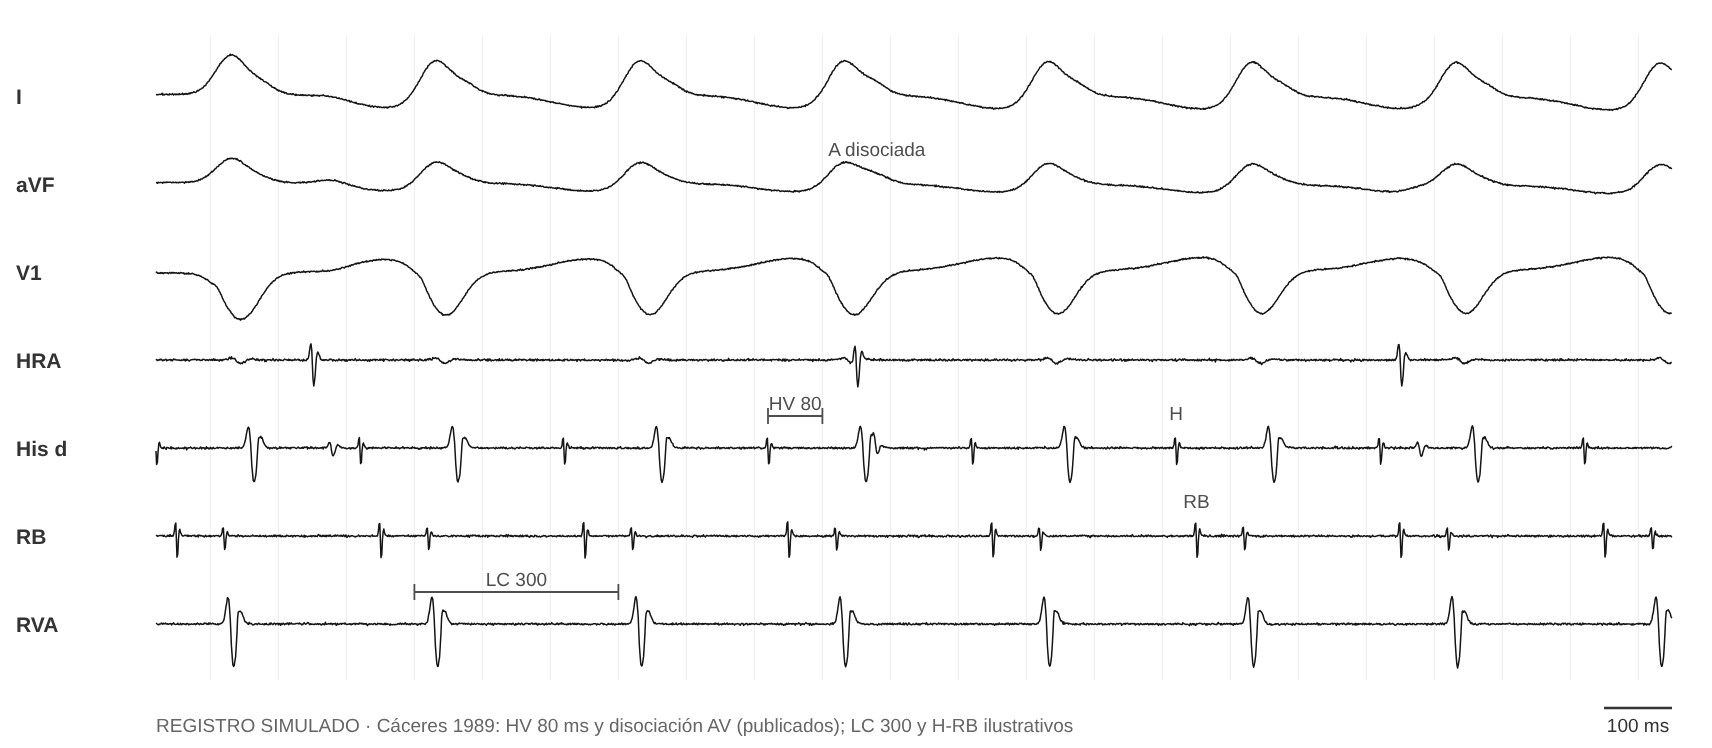
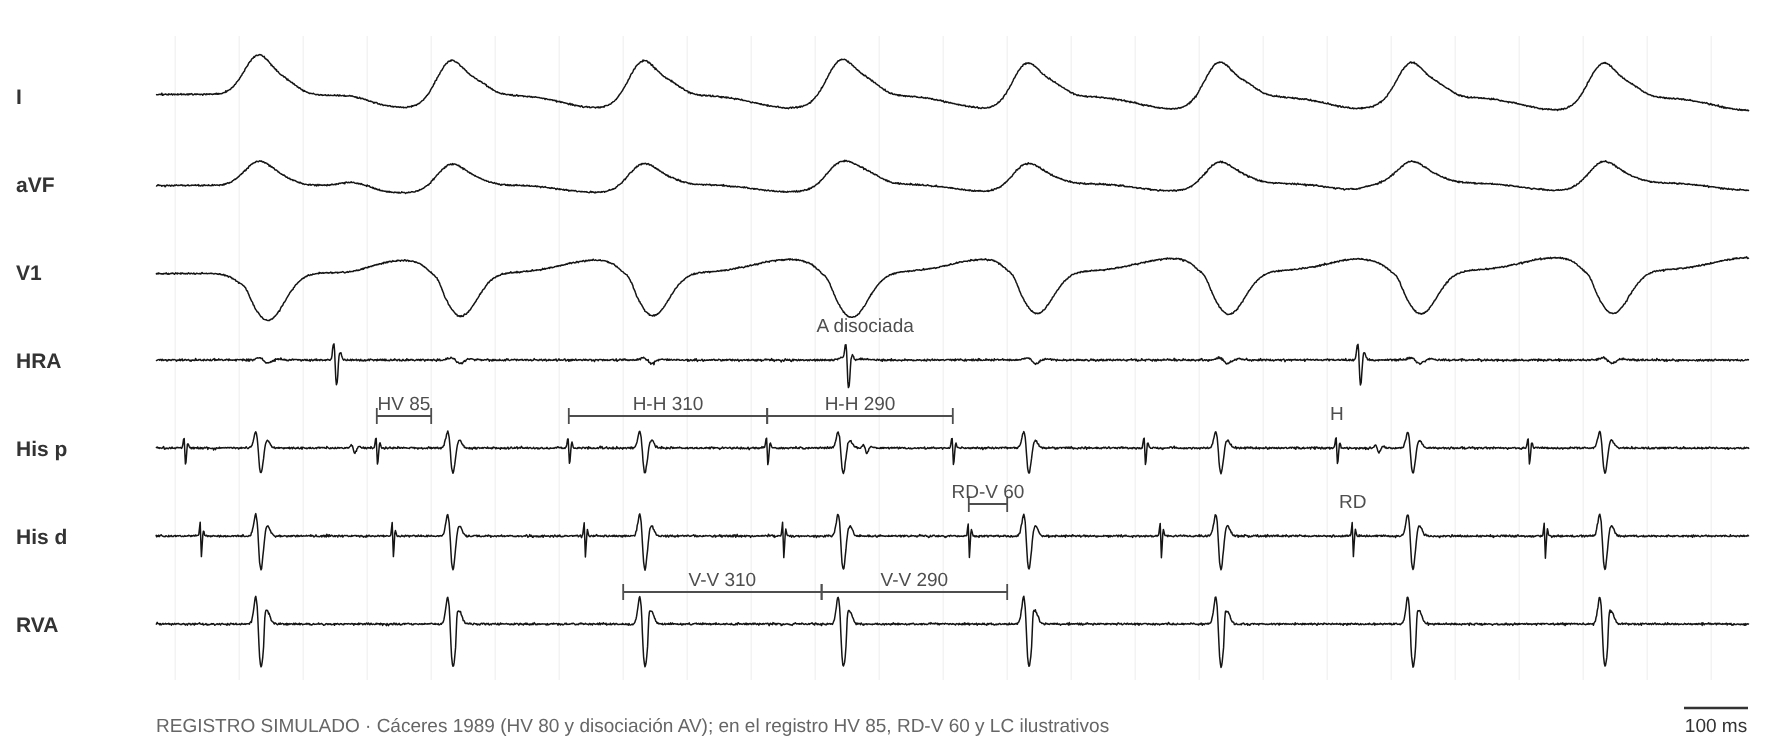
Rama-rama: canales His p (HV 85) e His d (RD-V 60), calibres H-H y V-V
Claude-Session: https://claude.ai/code/session_01Pw5rjt62KK5LeJZoEyFiaM

diff --git a/sw.js b/sw.js
@@ -1,6 +1,6 @@
 // Permite instalar la app y abrirla sin conexión. Primero la red (siempre lo último publicado); si no hay, la copia.
 // Si cambiás un archivo, subí CACHE_VERSION.
-const CACHE_VERSION = 'mef-v51';
+const CACHE_VERSION = 'mef-v52';
 const ARCHIVOS = ['./', './index.html', './manifest.json', './iconos/icon-192.png', './iconos/icon-512.png'];
 self.addEventListener('install', e => e.waitUntil(caches.open(CACHE_VERSION).then(c => c.addAll(ARCHIVOS)).then(() => self.skipWaiting())));
 self.addEventListener('activate', e => e.waitUntil(caches.keys().then(ks => Promise.all(ks.filter(k => k !== CACHE_VERSION).map(k => caches.delete(k)))).then(() => self.clients.claim())));

diff --git a/herramientas/simulador/cases3.py b/herramientas/simulador/cases3.py
@@ -88,16 +88,23 @@ S['veen12_aop'] = dict(win=(-80, 2800), pxms=0.27, channels=CH6,
     cal=[(vs[0], vs[1], 'RVA', 'LC 350'), (sp[1], sp[2], 'HRA', 'estim. 340'), (vs[0], A[0] + 2, 'CS 9-10', 'VA'), (pv[-1], lastA + 2, 'CS 9-10', 'VA igual')],
     marks=[(sp[2] + 200, 'His p', 'PR > RR: vía lenta'), (lastA + 60, 'His p', 'VA linking')])
 
-# 6. Rama-rama (Cáceres 1989): HV 80 durante la TV, disociación AV, His → rama derecha → V. LC 300 ilustrativa.
-LC = 300
-vs = [i * LC for i in range(8)]
+# 6. Rama-rama (Cáceres 1989): His → rama derecha → V, disociación AV. Cáceres publica HV 80 y la disociación;
+#    en el registro HV 85 y RD-V 60 (ilustrativos), LC ~300 con oscilación en la que el H-H precede y predice al V-V.
+#    His p: A pequeña, His y V. His d: potencial de rama derecha (RD) 60 ms antes del V. Sin canal de rama derecha aparte.
+cl = [300, 300, 310, 290, 300, 300, 300]
+vs = [0]
+for c in cl: vs.append(vs[-1] + c)
+hs = [v - 85 for v in vs]
 sin_a = [150, 950, 1750]
-S['caceres89'] = dict(win=(-80, 2150), pxms=0.34, channels=['HRA', 'His d', 'RB', 'RVA'],
-    src='Cáceres 1989: HV 80 ms y disociación AV (publicados); LC 300 y H-RB ilustrativos',
-    beats=[(v, 'lb') for v in vs], atr=[(a, 'sinus', 1) for a in sin_a], h_ante=[v - 80 for v in vs],
-    extra={'RB': [(v - 50, 0.8, 0.6) for v in vs] + [(v + 20, 0.5, 2.0) for v in vs]},
-    cal=[(vs[3] - 80, vs[3], 'His d', 'HV 80'), (vs[1], vs[2], 'RVA', 'LC 300')],
-    marks=[(vs[5] - 80, 'His d', 'H'), (vs[5] - 50, 'RB', 'RB'), (sin_a[1] + 30, 'aVF', 'A disociada')])
+S['caceres89'] = dict(win=(-130, vs[-1] + 260), pxms=0.32, channels=['HRA', 'His p', 'His d', 'RVA'], custom=['His p', 'His d'],
+    src='Cáceres 1989 (HV 80 y disociación AV); en el registro HV 85, RD-V 60 y LC ilustrativos',
+    beats=[(v, 'lb') for v in vs], atr=[(a, 'sinus', 1) for a in sin_a],
+    extra={'His p': [(a + 28, 0.18, 1.2) for a in sin_a] + [(h, 0.6, 0.6) for h in hs] + [(v + 30, 0.9, 1.8) for v in vs],
+           'His d': [(v - 60, 0.75, 0.5) for v in vs] + [(v + 30, 1.2, 1.8) for v in vs]},
+    cal=[(hs[1], vs[1], 'His p', 'HV 85'), (vs[4] - 60, vs[4], 'His d', 'RD-V 60'),
+         (hs[2], hs[3], 'His p', 'H-H 310'), (hs[3], hs[4], 'His p', 'H-H 290'),
+         (vs[2], vs[3], 'RVA', 'V-V 310'), (vs[3], vs[4], 'RVA', 'V-V 290')],
+    marks=[(hs[6], 'His p', 'H'), (vs[6] - 60, 'His d', 'RD'), (sin_a[1] + 28, 'HRA', 'A disociada')])
 
 # 7. Músculo papilar posteromedial (Doppalapudi 2008): EV con BRD y eje superior, QRS ancho; en el sitio de origen
 #    el V local precede al QRS sin potencial de Purkinje previo. Tiempos ilustrativos.

diff --git a/herramientas/simulador/simlib.py b/herramientas/simulador/simlib.py
@@ -81,10 +81,13 @@ def render(sc, path):
     def far_v(t0, typ, extra):
         return v_local(t0, typ) + extra
 
+    custom = sc.get('custom', [])                 # canales que solo muestran lo que se les pasa en extra
     def channel(name):
         def f(t):
             y = 0.0
-            if name == 'HRA':
+            if name in custom:
+                pass
+            elif name == 'HRA':
                 y += egm(t, [(ta + ch_atrial_offset(seq, 'HRA'), 0.9) for ta, seq, pol in atr])
                 y += egm(t, [(far_v(t0, typ, 8), 0.12) for t0, typ in beats], w=3)
             elif name.startswith('His'):

diff --git a/PENDIENTES.md b/PENDIENTES.md
@@ -29,7 +29,7 @@ En todos conviene mirar las amplitudes y la morfología del QRS, la visibilidad 
 - [ ] [ver](https://drsebastianmaldonado.github.io/Maniobras-EEF/figs/sim/michaud01.png) **Michaud 2001** (SA−VA): encarrilamiento con 6 estímulos a 440, A-A 440, LC 470, VA 120, SA 160, PPI 550. Publicados estimulación a 440, SA−VA 40 y PPI−LC 80; la LC 470 y el VA 120 son míos. También en el caso 2.
 - [ ] [ver](https://drsebastianmaldonado.github.io/Maniobras-EEF/figs/sim/parahis.png) **Veenhuyzen 2012, fig. 3** (para-Hisiana): publicado el Δ 61 ms; el SA 90 es mío.
 - [ ] [ver](https://drsebastianmaldonado.github.io/Maniobras-EEF/figs/sim/veen12_aop.png) **Veenhuyzen 2012, fig. 5** (sobreestimulación auricular): publicados LC 350 y estimulación a 340; AH 255 y VA 50 son míos.
-- [ ] [ver](https://drsebastianmaldonado.github.io/Maniobras-EEF/figs/sim/caceres89.png) **Cáceres 1989** (rama-rama): publicados HV 80 y disociación; LC 300 e intervalo His-rama derecha míos.
+- [ ] [ver](https://drsebastianmaldonado.github.io/Maniobras-EEF/figs/sim/caceres89.png) **Cáceres 1989** (rama-rama): His p con A pequeña, His (HV 85) y V; His d con potencial de rama derecha 60 ms antes del V; sin canal de rama aparte. Calibres H-H y V-V (310 y 290) para mostrar que el H-H precede al V-V. Publicados HV 80 y disociación; el resto ilustrativo.
 - [ ] [ver](https://drsebastianmaldonado.github.io/Maniobras-EEF/figs/sim/pm_doppa.png) **Doppalapudi 2008** (músculo papilar): morfología según el artículo; tiempos míos.
 - [ ] [ver](https://drsebastianmaldonado.github.io/Maniobras-EEF/figs/sim/tada05.png) **Tada 2005** (anillo mitral): morfología según el artículo; tiempos míos.
 - [ ] [ver](https://drsebastianmaldonado.github.io/Maniobras-EEF/figs/sim/jackman88.png) **Jackman 1988** (vía oblicua): potencial de la vía; tiempos míos.
